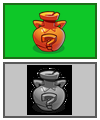
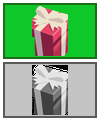
v3.24.1: cob cannon rebuilt from original almanac render (unflipped, proper muzzle), loaded cob separated; plantbox now original ribboned gift box

Changed region(s): [[0.27, 0.525, 0.72, 0.975], [0.3, 0.05, 0.69, 0.475]]

diff --git a/pvz-web/js/GameLoop.js b/pvz-web/js/GameLoop.js
@@ -1008,44 +1008,44 @@ class Game {
     initUI() {
         // Just define the seeds, don't populate the top bar yet
         this.seeds = [
-            { type: 'sunflower', cost: 50, cooldown: 7.5, img: 'assets/images/Card/Plants/SunFlower.png?v=1790307878' },
-            { type: 'twinsunflower', cost: 150, cooldown: 50, img: 'assets/images/Card/Plants/TwinSunflower.png?v=1790307878' },
-            { type: 'sunshroom', cost: 25, cooldown: 7.5, img: 'assets/images/Card/Plants/SunShroom.png?v=1790307878' },
-            { type: 'peashooter', cost: 100, cooldown: 7.5, img: 'assets/images/Card/Plants/Peashooter.png?v=1790307878' },
-            { type: 'repeater', cost: 200, cooldown: 7.5, img: 'assets/images/Card/Plants/Repeater.png?v=1790307878' },
-            { type: 'threepeater', cost: 300, cooldown: 7.5, img: 'assets/images/Card/Plants/Threepeater.png?v=1790307878' },
-            { type: 'gatlingpea', cost: 250, cooldown: 50, img: 'assets/images/Card/Plants/GatlingPea.png?v=1790307878' },
-            { type: 'snowpea', cost: 175, cooldown: 7.5, img: 'assets/images/Card/Plants/SnowPea.png?v=1790307878' },
-            { type: 'splitpea', cost: 125, cooldown: 7.5, img: 'assets/images/Card/Plants/SplitPea.png?v=1790307878' },
-            { type: 'torchwood', cost: 175, cooldown: 7.5, img: 'assets/images/Card/Plants/Torchwood.png?v=1790307878' },
-            { type: 'wallnut', cost: 50, cooldown: 30, img: 'assets/images/Card/Plants/WallNut.png?v=1790307878' },
-            { type: 'cherrybomb', cost: 150, cooldown: 50, img: 'assets/images/Card/Plants/CherryBomb.png?v=1790307878' },            { type: 'squash', cost: 50, cooldown: 30, img: 'assets/images/Card/Plants/Squash.png?v=1790307878' },
-            { type: 'jalapeno', cost: 125, cooldown: 50, img: 'assets/images/Card/Plants/Jalapeno.png?v=1790307878' },
-            { type: 'potatomine', cost: 25, cooldown: 30, img: 'assets/images/Card/Plants/PotatoMine.png?v=1790307878' },
-            { type: 'chomper', cost: 150, cooldown: 7.5, img: 'assets/images/Card/Plants/Chomper.png?v=1790307878' },
-            { type: 'tallnut', cost: 125, cooldown: 30, img: 'assets/images/Card/Plants/TallNut.png?v=1790307878' },
-            { type: 'puffshroom', cost: 0, cooldown: 7.5, img: 'assets/images/Card/Plants/PuffShroom.png?v=1790307878' },
-            { type: 'fumeshroom', cost: 75, cooldown: 7.5, img: 'assets/images/Card/Plants/FumeShroom.png?v=1790307878' },
-            { type: 'scaredyshroom', cost: 25, cooldown: 7.5, img: 'assets/images/Card/Plants/ScaredyShroom.png?v=1790307878' },
-            { type: 'gloomshroom', cost: 150, cooldown: 7.5, img: 'assets/images/Card/Plants/GloomShroom.png?v=1790307878' },
-            { type: 'spikerock', cost: 125, cooldown: 7.5, img: 'assets/images/Card/Plants/Spikerock.png?v=1790307878' },
-            { type: 'cattail', cost: 225, cooldown: 7.5, img: 'assets/images/Card/Plants/Cattail.png?v=1790307878' },
-            { type: 'melonpult', cost: 300, cooldown: 7.5, img: 'assets/images/Card/Plants/MelonPult.png?v=1790307878' },{ type: 'iceshroom', cost: 75, cooldown: 50, img: 'assets/images/Card/Plants/IceShroom.png?v=1790307878' },
-            { type: 'doomshroom', cost: 125, cooldown: 50, img: 'assets/images/Card/Plants/DoomShroom.png?v=1790307878' },
-            { type: 'spikeweed', cost: 100, cooldown: 7.5, img: 'assets/images/Card/Plants/Spikeweed.png?v=1790307878' },
-            { type: 'garlic', cost: 50, cooldown: 7.5, img: 'assets/images/Card/Plants/Garlic.png?v=1790307878' },
+            { type: 'sunflower', cost: 50, cooldown: 7.5, img: 'assets/images/Card/Plants/SunFlower.png?v=1790311586' },
+            { type: 'twinsunflower', cost: 150, cooldown: 50, img: 'assets/images/Card/Plants/TwinSunflower.png?v=1790311586' },
+            { type: 'sunshroom', cost: 25, cooldown: 7.5, img: 'assets/images/Card/Plants/SunShroom.png?v=1790311586' },
+            { type: 'peashooter', cost: 100, cooldown: 7.5, img: 'assets/images/Card/Plants/Peashooter.png?v=1790311586' },
+            { type: 'repeater', cost: 200, cooldown: 7.5, img: 'assets/images/Card/Plants/Repeater.png?v=1790311586' },
+            { type: 'threepeater', cost: 300, cooldown: 7.5, img: 'assets/images/Card/Plants/Threepeater.png?v=1790311586' },
+            { type: 'gatlingpea', cost: 250, cooldown: 50, img: 'assets/images/Card/Plants/GatlingPea.png?v=1790311586' },
+            { type: 'snowpea', cost: 175, cooldown: 7.5, img: 'assets/images/Card/Plants/SnowPea.png?v=1790311586' },
+            { type: 'splitpea', cost: 125, cooldown: 7.5, img: 'assets/images/Card/Plants/SplitPea.png?v=1790311586' },
+            { type: 'torchwood', cost: 175, cooldown: 7.5, img: 'assets/images/Card/Plants/Torchwood.png?v=1790311586' },
+            { type: 'wallnut', cost: 50, cooldown: 30, img: 'assets/images/Card/Plants/WallNut.png?v=1790311586' },
+            { type: 'cherrybomb', cost: 150, cooldown: 50, img: 'assets/images/Card/Plants/CherryBomb.png?v=1790311586' },            { type: 'squash', cost: 50, cooldown: 30, img: 'assets/images/Card/Plants/Squash.png?v=1790311586' },
+            { type: 'jalapeno', cost: 125, cooldown: 50, img: 'assets/images/Card/Plants/Jalapeno.png?v=1790311586' },
+            { type: 'potatomine', cost: 25, cooldown: 30, img: 'assets/images/Card/Plants/PotatoMine.png?v=1790311586' },
+            { type: 'chomper', cost: 150, cooldown: 7.5, img: 'assets/images/Card/Plants/Chomper.png?v=1790311586' },
+            { type: 'tallnut', cost: 125, cooldown: 30, img: 'assets/images/Card/Plants/TallNut.png?v=1790311586' },
+            { type: 'puffshroom', cost: 0, cooldown: 7.5, img: 'assets/images/Card/Plants/PuffShroom.png?v=1790311586' },
+            { type: 'fumeshroom', cost: 75, cooldown: 7.5, img: 'assets/images/Card/Plants/FumeShroom.png?v=1790311586' },
+            { type: 'scaredyshroom', cost: 25, cooldown: 7.5, img: 'assets/images/Card/Plants/ScaredyShroom.png?v=1790311586' },
+            { type: 'gloomshroom', cost: 150, cooldown: 7.5, img: 'assets/images/Card/Plants/GloomShroom.png?v=1790311586' },
+            { type: 'spikerock', cost: 125, cooldown: 7.5, img: 'assets/images/Card/Plants/Spikerock.png?v=1790311586' },
+            { type: 'cattail', cost: 225, cooldown: 7.5, img: 'assets/images/Card/Plants/Cattail.png?v=1790311586' },
+            { type: 'melonpult', cost: 300, cooldown: 7.5, img: 'assets/images/Card/Plants/MelonPult.png?v=1790311586' },{ type: 'iceshroom', cost: 75, cooldown: 50, img: 'assets/images/Card/Plants/IceShroom.png?v=1790311586' },
+            { type: 'doomshroom', cost: 125, cooldown: 50, img: 'assets/images/Card/Plants/DoomShroom.png?v=1790311586' },
+            { type: 'spikeweed', cost: 100, cooldown: 7.5, img: 'assets/images/Card/Plants/Spikeweed.png?v=1790311586' },
+            { type: 'garlic', cost: 50, cooldown: 7.5, img: 'assets/images/Card/Plants/Garlic.png?v=1790311586' },
             // ===== v3.6.0 经典模式新增 4 植物（数值取 PVZ1 原版；融合模式选卡仍过滤为 15 基础牌，不受影响）=====
-            { type: 'wintermelon', cost: 200, cooldown: 7.5, img: 'assets/images/Card/Plants/WinterMelon.png?v=1790307878' },
-            { type: 'starfruit', cost: 125, cooldown: 7.5, img: 'assets/images/Card/Plants/Starfruit.png?v=1790307878' },
-            { type: 'hypnoshroom', cost: 75, cooldown: 30, img: 'assets/images/Card/Plants/HypnoShroom.png?v=1790307878' },
-            { type: 'pumpkinhead', cost: 125, cooldown: 30, img: 'assets/images/Card/Plants/PumpkinHead.png?v=1790307878' },
+            { type: 'wintermelon', cost: 200, cooldown: 7.5, img: 'assets/images/Card/Plants/WinterMelon.png?v=1790311586' },
+            { type: 'starfruit', cost: 125, cooldown: 7.5, img: 'assets/images/Card/Plants/Starfruit.png?v=1790311586' },
+            { type: 'hypnoshroom', cost: 75, cooldown: 30, img: 'assets/images/Card/Plants/HypnoShroom.png?v=1790311586' },
+            { type: 'pumpkinhead', cost: 125, cooldown: 30, img: 'assets/images/Card/Plants/PumpkinHead.png?v=1790311586' },
             // ===== v3.10.0 投手两兄弟，v3.11.0 调价（破甲 + 黄油定身很值钱，不再按原版 100 阳光卖）=====
             // 抛射物可破甲：越过路障/铁桶/报纸/铁门直接打僵尸本体，护甲不脱落。
             // 玉米投手另有 20% 概率投出黄油（定身 3 秒）。
-            { type: 'cabbagepult', cost: 150, cooldown: 7.5, img: 'assets/images/Card/Plants/CabbagePult.png?v=1790307878' },
-            { type: 'kernelpult', cost: 175, cooldown: 7.5, img: 'assets/images/Card/Plants/KernelPult.png?v=1790307878' },
+            { type: 'cabbagepult', cost: 150, cooldown: 7.5, img: 'assets/images/Card/Plants/CabbagePult.png?v=1790311586' },
+            { type: 'kernelpult', cost: 175, cooldown: 7.5, img: 'assets/images/Card/Plants/KernelPult.png?v=1790311586' },
             // ===== v3.24.0 植物盲盒：500 阳光，种下随机开出"经典冒险+融合进化"全植物池中的一株 =====
-            { type: 'plantbox', cost: 500, cooldown: 5, img: 'assets/images/Card/Plants/PlantBox.png?v=1790307878' }
+            { type: 'plantbox', cost: 500, cooldown: 5, img: 'assets/images/Card/Plants/PlantBox.png?v=1790311586' }
         ];
         // The top bar will be populated in startGame() after selection
     }
@@ -1087,7 +1087,7 @@ class Game {
             { a: 'snowpea', b: 'wallnut', result: '寒冰坚果', img: 'assets/images/Plants/WallNut/WallNut.gif', filter: 'hue-rotate(180deg) saturate(1.5) brightness(1.2)', css: false },
             { a: 'peashooter', b: 'cherrybomb', result: '樱桃射手', img: 'assets/images/Plants/Peashooter/Peashooter.gif', filter: 'hue-rotate(-45deg) saturate(2.0)', css: false },
             { a: 'sunflower', b: 'doomshroom', result: '毁灭向日葵', img: 'assets/images/Plants/SunFlower/SunFlower1.gif', filter: 'grayscale(0.8) brightness(0.6) sepia(1) hue-rotate(240deg) saturate(3)', css: false },
-            { a: 'melonpult', b: 'iceshroom', result: '冰西瓜投手', img: 'assets/images/Plants/WinterMelon/WinterMelon.png?v=1790307878', css: false },
+            { a: 'melonpult', b: 'iceshroom', result: '冰西瓜投手', img: 'assets/images/Plants/WinterMelon/WinterMelon.png?v=1790311586', css: false },
             { a: 'repeater', b: 'spikeweed', result: '猫尾草', img: 'assets/images/Plants/Cattail/Cattail.gif', css: false },
             { a: 'fumeshroom', b: 'fumeshroom', result: '忧郁菇', img: 'assets/images/Plants/GloomShroom/GloomShroom.gif', css: false },
             { a: 'spikeweed', b: 'spikeweed', result: '钢地刺', img: 'assets/images/Plants/Spikerock/Spikerock.gif', css: false },
@@ -1097,16 +1097,16 @@ class Game {
             { a: 'splitpea', b: 'sunflower', result: '杨桃', img: 'assets/images/Plants/Starfruit/Starfruit.gif', css: false },
             { a: 'puffshroom', b: 'garlic', result: '魅惑菇', img: 'assets/images/Plants/HypnoShroom/HypnoShroom.gif', css: false },
             { a: 'wallnut', b: 'tallnut', result: '南瓜壳（可套在任意植物上）', img: 'assets/images/Plants/PumpkinHead/PumpkinHead.gif', css: false },
-            { a: 'melonpult', b: 'cattail', result: '西瓜猫尾草', base: 'assets/images/Plants/Cattail/Cattail.gif', over: 'assets/images/Plants/MelonPult/MelonPult.png?v=1790307878', overTransform: 'translate(-5px, -30px) scale(0.7)' },
-            { a: 'wintermelon', b: 'cattail', result: '冰西瓜猫尾草', base: 'assets/images/Plants/Cattail/Cattail.gif', over: 'assets/images/Plants/WinterMelon/WinterMelon.png?v=1790307878', overTransform: 'translate(-5px, -30px) scale(0.7)' },
+            { a: 'melonpult', b: 'cattail', result: '西瓜猫尾草', base: 'assets/images/Plants/Cattail/Cattail.gif', over: 'assets/images/Plants/MelonPult/MelonPult.png?v=1790311586', overTransform: 'translate(-5px, -30px) scale(0.7)' },
+            { a: 'wintermelon', b: 'cattail', result: '冰西瓜猫尾草', base: 'assets/images/Plants/Cattail/Cattail.gif', over: 'assets/images/Plants/WinterMelon/WinterMelon.png?v=1790311586', overTransform: 'translate(-5px, -30px) scale(0.7)' },
             // ===== v3.10.0 以卷心菜投手 / 玉米投手为基础的新融合 =====
             // v3.11.0：下面两条的 overClip / overTransform 与 Plant.js 内的实机分支**完全同步**
             // （此前图鉴写的是旧的"左上角对齐 + 整块上移"版本，与实机不是同一套，图鉴和游戏里长得不一样）
-            { a: 'cabbagepult', b: 'kernelpult', result: '双料投手（3/4 投卷心菜、1/4 投黄油定身 3 秒）', base: 'assets/images/Plants/KernelPult/KernelPult.png?v=1790307878', over: 'assets/images/Plants/CabbagePult/CabbagePult.png?v=1790307878', overClip: 'polygon(0 0, 48% 0, 48% 50%, 0 50%)', overTransform: 'translate(37px, 8px)' },
-            { a: 'cabbagepult', b: 'wallnut', result: '卷心菜堡垒（坚果肉盾 + 继续投掷，4000 耐久）', base: 'assets/images/Plants/WallNut/WallNut.gif', over: 'assets/images/Plants/CabbagePult/CabbagePult.png?v=1790307878', overClip: 'polygon(0 0, 46% 0, 46% 46%, 0 46%)', overTransform: 'translate(26px, -4px)' },
-            { a: 'cabbagepult', b: 'iceshroom', result: '寒冰卷心菜（破甲 + 命中减速 10 秒）', img: 'assets/images/Plants/CabbagePult/CabbagePult.png?v=1790307878', filter: 'brightness(112%) hue-rotate(120deg) saturate(1.7)', css: false },
-            { a: 'kernelpult', b: 'jalapeno', result: '爆米花投手（破甲 + 命中 3×3 溅射）', img: 'assets/images/Plants/KernelPult/KernelPult.png?v=1790307878', filter: 'hue-rotate(-18deg) saturate(1.9) brightness(1.18)', css: false },
-            { a: 'kernelpult', b: 'kernelpult', result: '玉米加农炮（需两株横向相邻 + 第三株融合；占两格，充能后点击开镜、按 M 发射）', img: 'assets/images/Plants/CobCannon/CobCannon.png?v=1790307878', css: false }
+            { a: 'cabbagepult', b: 'kernelpult', result: '双料投手（3/4 投卷心菜、1/4 投黄油定身 3 秒）', base: 'assets/images/Plants/KernelPult/KernelPult.png?v=1790311586', over: 'assets/images/Plants/CabbagePult/CabbagePult.png?v=1790311586', overClip: 'polygon(0 0, 48% 0, 48% 50%, 0 50%)', overTransform: 'translate(37px, 8px)' },
+            { a: 'cabbagepult', b: 'wallnut', result: '卷心菜堡垒（坚果肉盾 + 继续投掷，4000 耐久）', base: 'assets/images/Plants/WallNut/WallNut.gif', over: 'assets/images/Plants/CabbagePult/CabbagePult.png?v=1790311586', overClip: 'polygon(0 0, 46% 0, 46% 46%, 0 46%)', overTransform: 'translate(26px, -4px)' },
+            { a: 'cabbagepult', b: 'iceshroom', result: '寒冰卷心菜（破甲 + 命中减速 10 秒）', img: 'assets/images/Plants/CabbagePult/CabbagePult.png?v=1790311586', filter: 'brightness(112%) hue-rotate(120deg) saturate(1.7)', css: false },
+            { a: 'kernelpult', b: 'jalapeno', result: '爆米花投手（破甲 + 命中 3×3 溅射）', img: 'assets/images/Plants/KernelPult/KernelPult.png?v=1790311586', filter: 'hue-rotate(-18deg) saturate(1.9) brightness(1.18)', css: false },
+            { a: 'kernelpult', b: 'kernelpult', result: '玉米加农炮（需两株横向相邻 + 第三株融合；占两格，充能后点击开镜、按 M 发射）', img: 'assets/images/Plants/CobCannon/CobCannon.png?v=1790311586', css: false }
         ];
         
         const list = document.getElementById('recipe-list');
@@ -1137,8 +1137,8 @@ class Game {
                     'fumeshroom': 'assets/images/Plants/FumeShroom/FumeShroom.gif',
                     'spikeweed': 'assets/images/Plants/Spikeweed/Spikeweed.gif',
                     'tallnut': 'assets/images/Plants/TallNut/TallNut.gif',
-                    'melonpult': 'assets/images/Plants/MelonPult/MelonPult.png?v=1790307878',
-                    'wintermelon': 'assets/images/Plants/WinterMelon/WinterMelon.png?v=1790307878',
+                    'melonpult': 'assets/images/Plants/MelonPult/MelonPult.png?v=1790311586',
+                    'wintermelon': 'assets/images/Plants/WinterMelon/WinterMelon.png?v=1790311586',
                     'cattail': 'assets/images/Plants/Cattail/Cattail.gif',
                     'gloomshroom': 'assets/images/Plants/GloomShroom/GloomShroom.gif',
                     'spikerock': 'assets/images/Plants/Spikerock/Spikerock.gif',
@@ -1148,8 +1148,8 @@ class Game {
                     'starfruit': 'assets/images/Plants/Starfruit/Starfruit.gif',
                     'hypnoshroom': 'assets/images/Plants/HypnoShroom/HypnoShroom.gif',
                     'pumpkinhead': 'assets/images/Plants/PumpkinHead/PumpkinHead.gif',
-                    'cabbagepult': 'assets/images/Plants/CabbagePult/CabbagePult.png?v=1790307878',
-                    'kernelpult': 'assets/images/Plants/KernelPult/KernelPult.png?v=1790307878'
+                    'cabbagepult': 'assets/images/Plants/CabbagePult/CabbagePult.png?v=1790311586',
+                    'kernelpult': 'assets/images/Plants/KernelPult/KernelPult.png?v=1790311586'
                 };
                 return map[t] || '';
             };
@@ -2125,7 +2125,7 @@ class Game {
                           : vType === 'zombie' ? 'Vase_Zombie.png'
                           : 'Vase_Question.png';
             const img = document.createElement('img');
-            img.src = 'assets/images/Vase/' + sprite + '?v=1790307878'; // v= 占位,bump_version 替换为新 cache-buster
+            img.src = 'assets/images/Vase/' + sprite + '?v=1790311586'; // v= 占位,bump_version 替换为新 cache-buster
             img.className = 'entity vase-entity';
             img.style.pointerEvents = 'none';
             if (isGolden) img.style.filter = 'drop-shadow(0 0 7px rgba(255, 210, 60, 0.95))'; // 金罐常驻金光
@@ -2192,7 +2192,7 @@ class Game {
                     v.pumpkinHp = 4000;
                     v.pumpkinMaxHp = 4000;
                     const ov = document.createElement('img');
-                    ov.src = 'assets/images/Plants/PumpkinHead/shield_full.png?v=1790307878'; // v= 占位,bump_version 替换
+                    ov.src = 'assets/images/Plants/PumpkinHead/shield_full.png?v=1790311586'; // v= 占位,bump_version 替换
                     ov.className = 'entity vase-pumpkin';
                     ov.style.pointerEvents = 'none';
                     ov.style.width = '97px';
@@ -2209,7 +2209,7 @@ class Game {
                     v.pumpkinEl = ov;
                     // v3.13.2：背壁层画在罐子身后，壳顶洞口里看到的是南瓜内壁而非草地
                     const back = document.createElement('img');
-                    back.src = 'assets/images/Plants/PumpkinHead/Pumpkin_back.gif?v=1790307878'; // v= 占位,bump_version 替换
+                    back.src = 'assets/images/Plants/PumpkinHead/Pumpkin_back.gif?v=1790311586'; // v= 占位,bump_version 替换
                     back.className = 'entity vase-pumpkin-back';
                     back.style.pointerEvents = 'none';
                     back.style.width = '97px';

diff --git a/pvz-web/js/entities/Plant.js b/pvz-web/js/entities/Plant.js
@@ -154,34 +154,34 @@ class Plant extends Entity {
             stat.hp = 300;
             stat.fireRate = 1.0;
             stat.fireTimer = 0;
-            stat.src = 'assets/images/Plants/MelonPult/MelonPult.png?v=1790307878';
+            stat.src = 'assets/images/Plants/MelonPult/MelonPult.png?v=1790311586';
         } else if (type === 'wintermelon') {
             stat.hp = 300;
             stat.fireRate = 1.0;
             stat.fireTimer = 0;
-            stat.src = 'assets/images/Plants/WinterMelon/WinterMelon.png?v=1790307878';
+            stat.src = 'assets/images/Plants/WinterMelon/WinterMelon.png?v=1790311586';
         } else if (type === 'cabbagepult') {
             // 卷心菜投手（v3.10.0）：PVZ1 原版数值——100 阳光 / 40 伤害 / 抛射。
             // 投掷物可"破甲"：越过路障·铁桶·报纸·铁门直接打僵尸本体，护甲不脱落。
             stat.hp = 300;
             stat.fireRate = 1.4;
             stat.fireTimer = 0;
-            stat.src = 'assets/images/Plants/CabbagePult/CabbagePult.png?v=1790307878';
+            stat.src = 'assets/images/Plants/CabbagePult/CabbagePult.png?v=1790311586';
         } else if (type === 'kernelpult') {
             // 玉米投手（v3.10.0）：100 阳光 / 玉米粒 20 伤害；20% 概率改投黄油（40 伤害 + 定身 3 秒）。
             // 与卷心菜投手同享破甲规则。
             stat.hp = 300;
             stat.fireRate = 1.4;
             stat.fireTimer = 0;
-            stat.src = 'assets/images/Plants/KernelPult/KernelPult.png?v=1790307878';
+            stat.src = 'assets/images/Plants/KernelPult/KernelPult.png?v=1790311586';
             stat.butterChance = 0.2;
         } else if (type === 'cobcannon') {
             // 玉米加农炮（v3.24.0）：PVZ1 原版 Cob Cannon——三株玉米投手合体，占两格。
             // 平时嘴里没有炮；充能 25s 结束后嘴里出现玉米炮弹；
             // 点击它出现瞄准镜（跟随鼠标），按 M 键向准星位置发射（见 GameLoop.enterCobAim）。
             stat.hp = 600;
-            stat.src = 'assets/images/Plants/CobCannon/CobCannon.png?v=1790307878';
-            stat.yOffset = -10;
+            stat.src = 'assets/images/Plants/CobCannon/CobCannon.png?v=1790311586';
+            stat.yOffset = 10;   // v3.24.1 立绘 148x85（显示宽150→高86），+10 保持轮子贴地
             stat.chargeTime = 25;
             stat.chargeTimer = 25;
             stat.chargeReady = false;
@@ -208,7 +208,7 @@ class Plant extends Entity {
             // 不攻击、不产太阳，仅在种植瞬间触发 lightUpNeighbors 照亮周围一圈罐子。
             // 0.gif 250×237 透明大画布，比 Plantern.gif 20 帧夜版更适合白天场地。
             stat.hp = 300;
-            stat.src = 'assets/images/Plants/Plantern/0.gif?v=1790307878';
+            stat.src = 'assets/images/Plants/Plantern/0.gif?v=1790311586';
             stat.yOffset = 0;
         }
 
@@ -696,9 +696,10 @@ class Plant extends Entity {
         if (show) {
             if (!this._cobShellEl) {
                 const el = document.createElement('img');
-                el.src = 'assets/images/Plants/CobCannon/Cob.png?v=1790307878';
+                // v3.24.1：装填玉米用原版图鉴里抠出的整根玉米（带根部），从炮口探出
+                el.src = 'assets/images/Plants/CobCannon/CobLoaded.png?v=1790311586';
                 // 裸 img 必须自带 translate(-50%,-50%) 居中基准（与 fusionOverlay 同一教训）
-                el.style.cssText = 'position:absolute;width:46px;height:22px;object-fit:contain;pointer-events:none;transform:translate(-50%,-50%);';
+                el.style.cssText = 'position:absolute;width:48px;height:54px;object-fit:contain;pointer-events:none;transform:translate(-50%,-50%);';
                 this.game.entityLayer.appendChild(el);
                 this._cobShellEl = el;
             }
@@ -713,7 +714,7 @@ class Plant extends Entity {
         this.chargeReady = false;
         this.chargeTimer = this.chargeTime;
         this._showCobShell(false);
-        const proj = new Projectile(this.game, this.x + 26, this.y + this.yOffset - 34, this.row, 'cob', null);
+        const proj = new Projectile(this.game, this.x + 45, this.y + this.yOffset - 18, this.row, 'cob', null);
         proj.setupLobToPoint(tx, ty);
         this.game.entities.push(proj);
     }
@@ -738,9 +739,9 @@ class Plant extends Entity {
                 }
             }
             if (this._cobShellEl) {
-                // 炮口在头部右端上部（立绘 200×170 面朝右上，显示宽 150）
-                this._cobShellEl.style.left = (this.x + 26) + 'px';
-                this._cobShellEl.style.top = (this.y + this.yOffset - 34) + 'px';
+                // v3.24.1 炮口在炮管右端（立绘 148×85 原版整株），玉米从炮口探出垂下
+                this._cobShellEl.style.left = (this.x + 50) + 'px';
+                this._cobShellEl.style.top = (this.y + this.yOffset - 14) + 'px';
                 this._cobShellEl.style.zIndex = String(Math.floor(this.y) + 2);
             }
             return;

diff --git a/pvz-web/js/entities/Projectile.js b/pvz-web/js/entities/Projectile.js
@@ -36,8 +36,8 @@ class Projectile extends Entity {
             // 旧素材是从 MelonPult 整株立绘 flood-fill 出的 50×40 残片 —— 右侧被齐边切掉、
             // 右下被瓜篮挖空，这就是玩家看到的"贴图不完整"。
             this.element.src = type === 'melon'
-                ? 'assets/images/Plants/MelonPult/Melon.png?v=1790307878'
-                : 'assets/images/Plants/MelonPult/WinterMelon.png?v=1790307878';
+                ? 'assets/images/Plants/MelonPult/Melon.png?v=1790311586'
+                : 'assets/images/Plants/MelonPult/WinterMelon.png?v=1790311586';
             this.setTransform();   // v3.10.0：裸写 transform 会顶掉 .entity 的居中基准（贴图偏移半个身位）
             // 注意：不能再加 border-radius:50% —— 那会把完整的椭圆瓜体按内切圆再裁一圈
             this.damage = 60;
@@ -47,7 +47,7 @@ class Projectile extends Entity {
             // 子弹取自 TSR 原版 Projectiles 图集（行标签 "Cabbage"）：30×27 绿色卷心菜。
             // 破甲：命中时以 {pierce:true} 结算 → 越过路障/铁桶/报纸/铁门直接打本体，护甲不脱落
             // （见 CollisionManager.update 与 Zombie.takeDamage）。
-            this.element.src = 'assets/images/Plants/CabbagePult/Cabbage.png?v=1790307878';
+            this.element.src = 'assets/images/Plants/CabbagePult/Cabbage.png?v=1790311586';
             // v3.11.0 尺寸校准：原图 30×27 投出来只有"米粒大"，与立绘篮筐里那颗（实测 35×29）
             // 不成比例 → 放大到 34×31 与篮内弹药等大（用 width/height，不碰 transform 以免顶掉居中基准）
             this.element.style.width = '34px';
@@ -64,7 +64,7 @@ class Projectile extends Entity {
             // ===== v3.10.0 玉米投手 =====
             // 子弹取自原版图集（行标签 "Kernel"）：淡黄玉米粒。同样走抛物线 + 破甲。
             // 爆米花（融合：玉米投手+火爆辣椒）：焦色更大颗，命中 3×3 溅射。
-            this.element.src = 'assets/images/Plants/KernelPult/Kernel.png?v=1790307878';
+            this.element.src = 'assets/images/Plants/KernelPult/Kernel.png?v=1790311586';
             // v3.11.0 尺寸校准：原图 16×17 投出来只有"米粒大"；立绘篮筐里那颗实测 19×20，
             // 所以放大到 22×23 —— 略大于篮内单颗，空中飞行时才有存在感（爆米花更大一颗 30×30）。
             // 用 width/height 而不是 transform，避免顶掉 .entity 的 translate(-50%,-50%) 居中基准。
@@ -86,7 +86,7 @@ class Projectile extends Entity {
             // 原版 Cob（TSR Projectiles 图集行标签 "Cob"）：161×76 完整玉米炮弹。
             // 飞向固定坐标点（不锁定僵尸），落地 3×3 范围 1800 炸弹伤害（见 _cobExplode）。
             // 注意：这里不 setupLob——fireCob() 随后调用 setupLobToPoint(tx,ty) 指定落点。
-            this.element.src = 'assets/images/Plants/CobCannon/Cob.png?v=1790307878';
+            this.element.src = 'assets/images/Plants/CobCannon/Cob.png?v=1790311586';
             this.element.style.width = '56px';
             this.element.style.height = '27px';
             this.element.style.objectFit = 'contain';
@@ -101,7 +101,7 @@ class Projectile extends Entity {
             // 原版图集行标签 "Butter" 的黄油块；命中后定身 3 秒（见 CollisionManager）。
             // v3.11.0：与放大后的玉米粒同一档体积，46×48 → 28×29
             // （用 width/height，不碰 transform，以免破坏 .entity 的 translate(-50%,-50%) 居中基准）。
-            this.element.src = 'assets/images/Plants/KernelPult/Butter.png?v=1790307878';
+            this.element.src = 'assets/images/Plants/KernelPult/Butter.png?v=1790311586';
             this.element.style.width = '28px';
             this.element.style.height = '29px';
             this.element.style.objectFit = 'contain';
@@ -114,12 +114,12 @@ class Projectile extends Entity {
             this.damage = 20;
             this.speed = 400;
         } else if (type === 'cattail_melon') {
-            this.element.src = 'assets/images/Plants/MelonPult/Melon_small.png?v=1790307878';
+            this.element.src = 'assets/images/Plants/MelonPult/Melon_small.png?v=1790311586';
             this.setTransform('scale(0.8)');
             this.damage = 60;
             this.speed = 400;
         } else if (type === 'cattail_wintermelon') {
-            this.element.src = 'assets/images/Plants/MelonPult/WinterMelon_small.png?v=1790307878';
+            this.element.src = 'assets/images/Plants/MelonPult/WinterMelon_small.png?v=1790311586';
             this.setTransform('scale(0.8)');
             this.damage = 60;
             this.speed = 400;

diff --git a/pvz-web/index.html b/pvz-web/index.html
@@ -4,7 +4,7 @@
     <meta charset="UTF-8">
     <meta name="viewport" content="width=device-width, initial-scale=1.0">
     <title>Plants vs Zombies - Web Clone</title>
-    <link rel="stylesheet" href="css/style.css?v=1790307878">
+    <link rel="stylesheet" href="css/style.css?v=1790311586">
 </head>
 <body>
     <div id="game-container">
@@ -336,16 +336,16 @@
                 });
         })();
     </script>
-    <script src="js/InputManager.js?v=1790307878"></script>
-    <script src="js/Board.js?v=1790307878"></script>
-    <script src="js/entities/Entity.js?v=1790307878"></script>
-    <script src="js/entities/Plant.js?v=1790307878"></script>
-    <script src="js/entities/Zombie.js?v=1790307878"></script>
-    <script src="js/entities/Projectile.js?v=1790307878"></script>
-    <script src="js/entities/Sun.js?v=1790307878"></script>
-    <script src="js/managers/WaveManager.js?v=1790307878"></script>
-    <script src="js/managers/CollisionManager.js?v=1790307878"></script>
-    <script src="js/managers/EventManager.js?v=1790307878"></script>
-    <script src="js/GameLoop.js?v=1790307878"></script>
+    <script src="js/InputManager.js?v=1790311586"></script>
+    <script src="js/Board.js?v=1790311586"></script>
+    <script src="js/entities/Entity.js?v=1790311586"></script>
+    <script src="js/entities/Plant.js?v=1790311586"></script>
+    <script src="js/entities/Zombie.js?v=1790311586"></script>
+    <script src="js/entities/Projectile.js?v=1790311586"></script>
+    <script src="js/entities/Sun.js?v=1790311586"></script>
+    <script src="js/managers/WaveManager.js?v=1790311586"></script>
+    <script src="js/managers/CollisionManager.js?v=1790311586"></script>
+    <script src="js/managers/EventManager.js?v=1790311586"></script>
+    <script src="js/GameLoop.js?v=1790311586"></script>
 </body>
 </html>

diff --git a/pvz-web/js/InputManager.js b/pvz-web/js/InputManager.js
@@ -206,9 +206,9 @@ class InputManager {
 
             // v3.24.0 植物盲盒：拖拽图直接用原版问号罐
             if (type === 'plantbox') {
-                this.dragGhost.style.backgroundImage = "url('assets/images/Vase/Vase_Question.png?v=1790307878')";
-                this.dragGhost.style.width = '60px';
-                this.dragGhost.style.height = '60px';
+                this.dragGhost.style.backgroundImage = "url('assets/images/Plants/PlantBox/GiftBox.png?v=1790311586')";
+                this.dragGhost.style.width = '46px';
+                this.dragGhost.style.height = '64px';
                 this.dragGhost.style.backgroundSize = 'contain';
                 this.dragGhost.style.backgroundPosition = 'center';
                 return;
@@ -218,8 +218,8 @@ class InputManager {
             const isMelonSprite = imgName === 'MelonPult/MelonPult' || imgName === 'WinterMelon/WinterMelon'
                 || imgName === 'CabbagePult/CabbagePult' || imgName === 'KernelPult/KernelPult';
             const url = isMelonSprite
-                ? `assets/images/Plants/${imgName}.png?v=1790307878`
-                : `assets/images/Plants/${imgName}.gif?v=1790307878`;
+                ? `assets/images/Plants/${imgName}.png?v=1790311586`
+                : `assets/images/Plants/${imgName}.gif?v=1790311586`;
             this.dragGhost.style.backgroundImage = `url('${url}')`;
 
             // v3.20.0：倭瓜立绘画布 100×226（身体只占底部 68×82），60×60 contain 后
